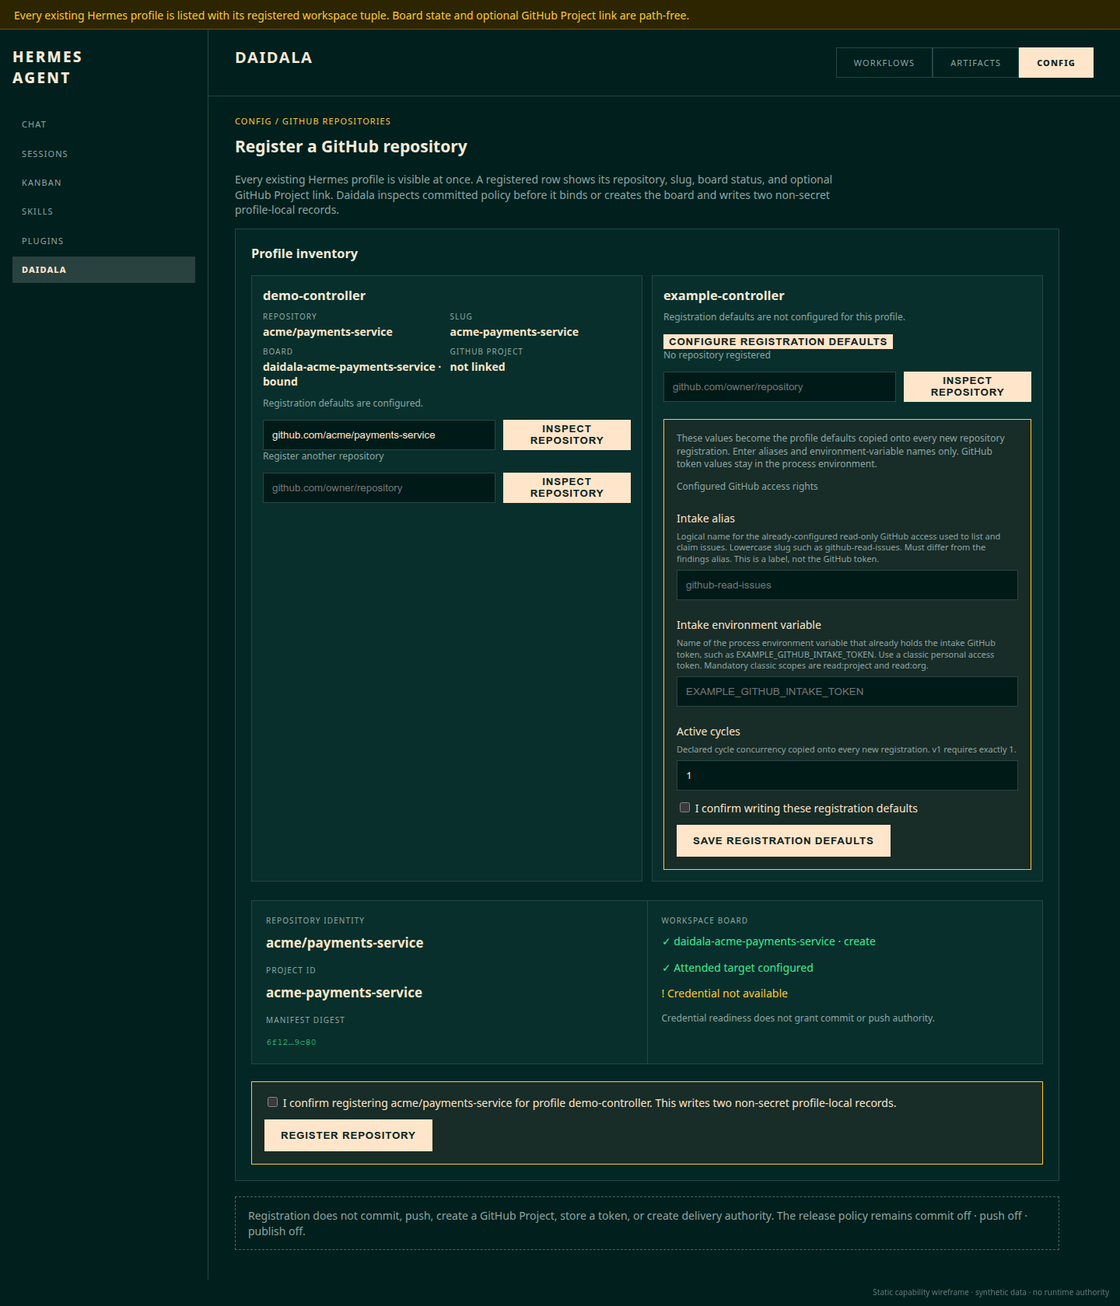
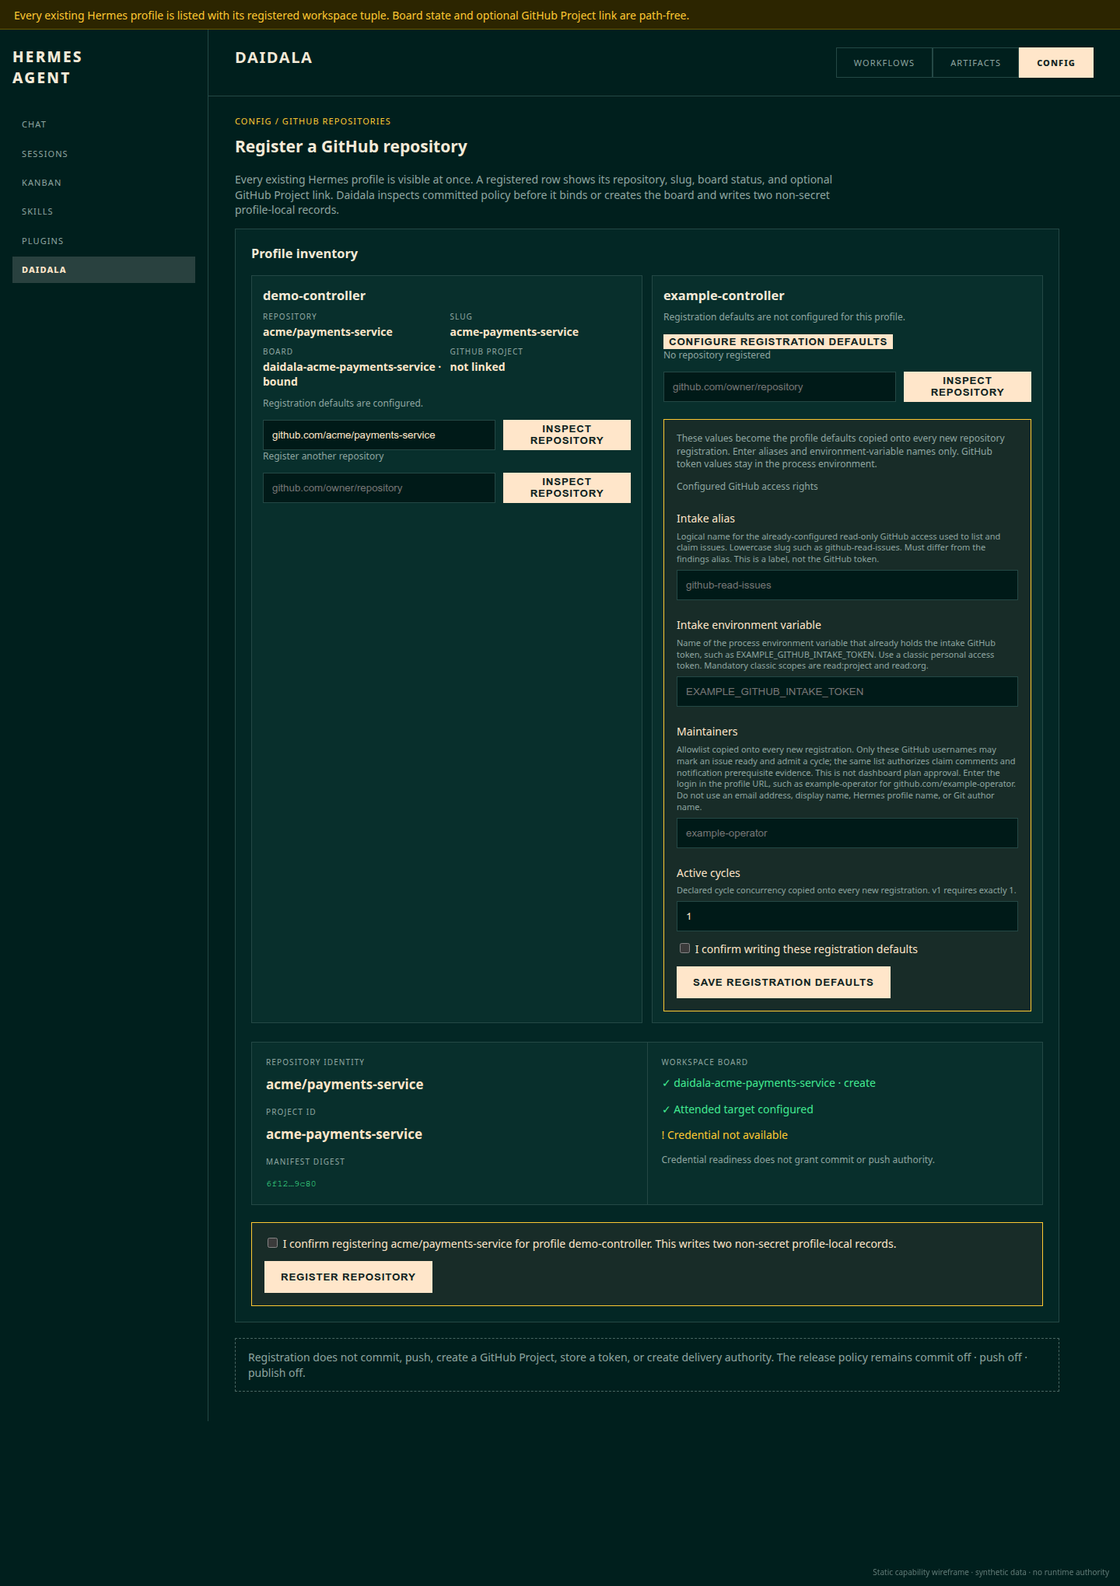
feat(dashboard): explain maintainer identities
- Operators filling Maintainers need to know it is a GitHub username
  (the login in the profile URL), not an email, display name, Hermes
  profile, or Git author name.
- The same list is copied onto each new registration and gates cycle
  admission, issue claim comments, and notification prerequisite
  evidence. It is not dashboard plan approval.
- Wizard help, runbook, CAP-0004, docs/15, docs/16, asset tests, and
  the CAP-0004 wireframe state that contract.

This change lets operators complete Maintainers without reading the
docs first.

Affected files/components:
- dashboard/dist/index.js
- dashboard/AGENTS.md
- tests/test_dashboard_assets.py
- docs/07-runbook.md
- docs/15-self-improvement.md
- docs/16-self-improvement-setup.md
- docs/product/capabilities/CAP-0004-github-repository-registration.md
- docs/changes/archive/CHG-0026-registration-defaults-maintainer-identity.md
- docs/changes/archive/CHG-0027-registration-defaults-maintainer-usage.md
- docs/product/wireframes/generate.mjs
- docs/product/wireframes/html/CAP-0004-github-repository-registration.html
- docs/product/wireframes/exports/CAP-0004-github-repository-registration.png
- docs/product/wireframes/index.html
- docs/product/wireframes/manifest.json

diff --git a/docs/product/wireframes/html/CAP-0004-github-repository-registration.html b/docs/product/wireframes/html/CAP-0004-github-repository-registration.html
@@ -6,7 +6,7 @@
   <title>CAP-0004 — GitHub repository registration</title>
   <style>
     :root { color-scheme: dark; --bg:#001f1d; --panel:#032725; --soft:#082f2c; --line:#244845; --text:#f4ead8; --muted:#8fa6a1; --cream:#ffe6ca; --ink:#102321; --amber:#ffc933; --green:#42ea92; }
-    * { box-sizing:border-box; } body { margin:0; width:1440px; min-height:1680px; overflow:hidden; background:var(--bg); color:var(--text); font:14px/1.4 Inter,ui-sans-serif,system-ui,sans-serif; }
+    * { box-sizing:border-box; } body { margin:0; width:1440px; min-height:2040px; overflow:hidden; background:var(--bg); color:var(--text); font:14px/1.4 Inter,ui-sans-serif,system-ui,sans-serif; }
     .profile { height:38px; padding:10px 18px; color:var(--amber); background:#2c2500; border-bottom:1px solid #675700; }
     .shell { display:grid; grid-template-columns:268px 1fr; min-height:922px; } aside { padding:22px 16px; border-right:1px solid var(--line); } .brand { font-size:19px; font-weight:800; letter-spacing:.12em; } nav { margin-top:30px; display:grid; gap:4px; } nav div { padding:9px 12px; color:var(--muted); font-size:11px; letter-spacing:.1em; text-transform:uppercase; } nav .active { color:var(--cream); background:#29413f; font-weight:800; }
     main { min-width:0; } header { height:86px; padding:24px 34px; display:flex; align-items:center; justify-content:space-between; border-bottom:1px solid var(--line); } h1,h2,h3,p { margin-top:0; } h1 { font-size:20px; letter-spacing:.08em; text-transform:uppercase; } .tabs { display:flex; } .tab { padding:11px 22px; border:1px solid var(--line); color:var(--muted); font-size:11px; letter-spacing:.1em; text-transform:uppercase; } .tab.active { color:var(--ink); background:var(--cream); border-color:var(--cream); font-weight:800; }
@@ -23,7 +23,7 @@
         <div class="profiles">
           <article class="profile-card"><h3>demo-controller</h3><div class="facts"><div><span>Repository</span><b>acme/payments-service</b></div><div><span>Slug</span><b>acme-payments-service</b></div><div><span>Board</span><b>daidala-acme-payments-service · bound</b></div><div><span>GitHub Project</span><b>not linked</b></div></div><p class="hint">Registration defaults are configured.</p><div class="field"><input value="github.com/acme/payments-service" aria-label="GitHub repository link for demo-controller"><button>Inspect repository</button></div><p class="hint">Register another repository</p><div class="field"><input placeholder="github.com/owner/repository" aria-label="Register another repository for demo-controller"><button>Inspect repository</button></div></article>
           <article class="profile-card"><h3>example-controller</h3><p class="hint">Registration defaults are not configured for this profile.</p><button>Configure registration defaults</button><p class="hint">No repository registered</p><div class="field"><input placeholder="github.com/owner/repository" aria-label="GitHub repository link for example-controller"><button>Inspect repository</button></div>
-            <div class="confirm"><p class="hint">These values become the profile defaults copied onto every new repository registration. Enter aliases and environment-variable names only. GitHub token values stay in the process environment.</p><div class="defaults"><p class="hint">Configured GitHub access rights</p><label>Intake alias<small class="field-help">Logical name for the already-configured read-only GitHub access used to list and claim issues. Lowercase slug such as github-read-issues. Must differ from the findings alias. This is a label, not the GitHub token.</small><input placeholder="github-read-issues" aria-label="Intake alias"></label><label>Intake environment variable<small class="field-help">Name of the process environment variable that already holds the intake GitHub token, such as EXAMPLE_GITHUB_INTAKE_TOKEN. Use a classic personal access token. Mandatory classic scopes are read:project and read:org.</small><input placeholder="EXAMPLE_GITHUB_INTAKE_TOKEN" aria-label="Intake environment variable"></label><label>Active cycles<small class="field-help">Declared cycle concurrency copied onto every new registration. v1 requires exactly 1.</small><input value="1" aria-label="Active cycles"></label></div><label><input type="checkbox"> I confirm writing these registration defaults</label><button>Save registration defaults</button></div></article>
+            <div class="confirm"><p class="hint">These values become the profile defaults copied onto every new repository registration. Enter aliases and environment-variable names only. GitHub token values stay in the process environment.</p><div class="defaults"><p class="hint">Configured GitHub access rights</p><label>Intake alias<small class="field-help">Logical name for the already-configured read-only GitHub access used to list and claim issues. Lowercase slug such as github-read-issues. Must differ from the findings alias. This is a label, not the GitHub token.</small><input placeholder="github-read-issues" aria-label="Intake alias"></label><label>Intake environment variable<small class="field-help">Name of the process environment variable that already holds the intake GitHub token, such as EXAMPLE_GITHUB_INTAKE_TOKEN. Use a classic personal access token. Mandatory classic scopes are read:project and read:org.</small><input placeholder="EXAMPLE_GITHUB_INTAKE_TOKEN" aria-label="Intake environment variable"></label><label>Maintainers<small class="field-help">Allowlist copied onto every new registration. Only these GitHub usernames may mark an issue ready and admit a cycle; the same list authorizes claim comments and notification prerequisite evidence. This is not dashboard plan approval. Enter the login in the profile URL, such as example-operator for github.com/example-operator. Do not use an email address, display name, Hermes profile name, or Git author name.</small><input placeholder="example-operator" aria-label="Maintainers"></label><label>Active cycles<small class="field-help">Declared cycle concurrency copied onto every new registration. v1 requires exactly 1.</small><input value="1" aria-label="Active cycles"></label></div><label><input type="checkbox"> I confirm writing these registration defaults</label><button>Save registration defaults</button></div></article>
         </div>
         <div class="preview"><section><p class="label">Repository identity</p><p class="value">acme/payments-service</p><p class="label">Project ID</p><p class="value">acme-payments-service</p><p class="label">Manifest digest</p><code>6f12…9c80</code></section><section><p class="label">Workspace board</p><p class="ok">✓ daidala-acme-payments-service · create</p><p class="ok">✓ Attended target configured</p><p class="warn">! Credential not available</p><p class="hint">Credential readiness does not grant commit or push authority.</p></section></div>
         <div class="confirm"><label><input type="checkbox"> I confirm registering acme/payments-service for profile demo-controller. This writes two non-secret profile-local records.</label><button>Register repository</button></div>

diff --git a/docs/product/wireframes/index.html b/docs/product/wireframes/index.html
@@ -1,2 +1,2 @@
 <!doctype html>
-<html lang="en"><head><meta charset="utf-8"><meta name="viewport" content="width=device-width, initial-scale=1"><title>Daidala capability wireframes</title><style>body{max-width:900px;margin:48px auto;padding:0 24px;background:#001f1d;color:#f4ead8;font:16px/1.5 system-ui}a{color:#ffc933}img{max-width:100%;border:1px solid #244845}code{color:#42ea92}</style></head><body><h1>Daidala capability wireframes</h1><p>Static visual references only. Runtime source and executable tests remain behavior authority.</p><h2>CAP-0003 — Operator dashboard</h2><p><a href="html/CAP-0003-operator-dashboard.html">Open interactive HTML</a> · <a href="exports/CAP-0003-operator-dashboard.png">Open PNG export</a></p><a href="html/CAP-0003-operator-dashboard.html"><img src="exports/CAP-0003-operator-dashboard.png" alt="Operator dashboard wireframe"></a><p><code>1440 × 960</code></p><h2>CAP-0004 — GitHub repository registration</h2><p><a href="html/CAP-0004-github-repository-registration.html">Open interactive HTML</a> · <a href="exports/CAP-0004-github-repository-registration.png">Open PNG export</a></p><a href="html/CAP-0004-github-repository-registration.html"><img src="exports/CAP-0004-github-repository-registration.png" alt="GitHub repository registration wireframe"></a><p><code>1440 × 1680</code></p><h2>CAP-0005 — Reviewed GitHub branch delivery</h2><p><a href="html/CAP-0005-reviewed-github-branch-delivery.html">Open interactive HTML</a> · <a href="exports/CAP-0005-reviewed-github-branch-delivery.png">Open PNG export</a></p><a href="html/CAP-0005-reviewed-github-branch-delivery.html"><img src="exports/CAP-0005-reviewed-github-branch-delivery.png" alt="Reviewed GitHub branch delivery wireframe"></a><p><code>1440 × 960</code></p><h2>CAP-0006 — Repository policy bootstrap</h2><p><a href="html/CAP-0006-repository-policy-bootstrap.html">Open interactive HTML</a> · <a href="exports/CAP-0006-repository-policy-bootstrap.png">Open PNG export</a></p><a href="html/CAP-0006-repository-policy-bootstrap.html"><img src="exports/CAP-0006-repository-policy-bootstrap.png" alt="Repository policy bootstrap wireframe"></a><p><code>1440 × 960</code></p><h2>CAP-0007 — Complete workflow-pack installation</h2><p><a href="html/CAP-0007-complete-workflow-pack-installation.html">Open interactive HTML</a> · <a href="exports/CAP-0007-complete-workflow-pack-installation.png">Open PNG export</a></p><a href="html/CAP-0007-complete-workflow-pack-installation.html"><img src="exports/CAP-0007-complete-workflow-pack-installation.png" alt="Complete workflow-pack installation wireframe"></a><p><code>1440 × 960</code></p></body></html>
+<html lang="en"><head><meta charset="utf-8"><meta name="viewport" content="width=device-width, initial-scale=1"><title>Daidala capability wireframes</title><style>body{max-width:900px;margin:48px auto;padding:0 24px;background:#001f1d;color:#f4ead8;font:16px/1.5 system-ui}a{color:#ffc933}img{max-width:100%;border:1px solid #244845}code{color:#42ea92}</style></head><body><h1>Daidala capability wireframes</h1><p>Static visual references only. Runtime source and executable tests remain behavior authority.</p><h2>CAP-0003 — Operator dashboard</h2><p><a href="html/CAP-0003-operator-dashboard.html">Open interactive HTML</a> · <a href="exports/CAP-0003-operator-dashboard.png">Open PNG export</a></p><a href="html/CAP-0003-operator-dashboard.html"><img src="exports/CAP-0003-operator-dashboard.png" alt="Operator dashboard wireframe"></a><p><code>1440 × 960</code></p><h2>CAP-0004 — GitHub repository registration</h2><p><a href="html/CAP-0004-github-repository-registration.html">Open interactive HTML</a> · <a href="exports/CAP-0004-github-repository-registration.png">Open PNG export</a></p><a href="html/CAP-0004-github-repository-registration.html"><img src="exports/CAP-0004-github-repository-registration.png" alt="GitHub repository registration wireframe"></a><p><code>1440 × 2040</code></p><h2>CAP-0005 — Reviewed GitHub branch delivery</h2><p><a href="html/CAP-0005-reviewed-github-branch-delivery.html">Open interactive HTML</a> · <a href="exports/CAP-0005-reviewed-github-branch-delivery.png">Open PNG export</a></p><a href="html/CAP-0005-reviewed-github-branch-delivery.html"><img src="exports/CAP-0005-reviewed-github-branch-delivery.png" alt="Reviewed GitHub branch delivery wireframe"></a><p><code>1440 × 960</code></p><h2>CAP-0006 — Repository policy bootstrap</h2><p><a href="html/CAP-0006-repository-policy-bootstrap.html">Open interactive HTML</a> · <a href="exports/CAP-0006-repository-policy-bootstrap.png">Open PNG export</a></p><a href="html/CAP-0006-repository-policy-bootstrap.html"><img src="exports/CAP-0006-repository-policy-bootstrap.png" alt="Repository policy bootstrap wireframe"></a><p><code>1440 × 960</code></p><h2>CAP-0007 — Complete workflow-pack installation</h2><p><a href="html/CAP-0007-complete-workflow-pack-installation.html">Open interactive HTML</a> · <a href="exports/CAP-0007-complete-workflow-pack-installation.png">Open PNG export</a></p><a href="html/CAP-0007-complete-workflow-pack-installation.html"><img src="exports/CAP-0007-complete-workflow-pack-installation.png" alt="Complete workflow-pack installation wireframe"></a><p><code>1440 × 960</code></p></body></html>

diff --git a/dashboard/dist/index.js b/dashboard/dist/index.js
@@ -2581,7 +2581,7 @@
     "approval.maintainers": {
       label: "Maintainers",
       placeholder: "example-operator",
-      help: "Who may admit work for repositories registered from this profile. Comma-separated identities, 1 to 32, no duplicates. Use the same identity the gateway will present, such as example-operator."
+      help: "Allowlist copied onto every new registration from this profile. Only these GitHub usernames may mark an issue ready and admit a cycle. The same list authorizes issue claim comments and must match the authorized maintainer in notification prerequisite evidence. This is not dashboard plan approval. Enter the login in the profile URL, such as example-operator for github.com/example-operator. Comma-separated, 1 to 32, no duplicates. Do not use an email address, display name, Hermes profile name, or Git author name."
     },
     "notifications.target": {
       label: "Notification target",

diff --git a/tests/test_dashboard_assets.py b/tests/test_dashboard_assets.py
@@ -381,6 +381,12 @@ def test_bundle_exposes_confirmed_path_free_repository_registration() -> None:
         "explicit non-home target",
         "v1 requires exactly 1",
         "Configured GitHub access rights",
+        "GitHub usernames",
+        "github.com/example-operator",
+        "Do not use an email address",
+        "Hermes profile name",
+        "Allowlist copied onto every new registration",
+        "This is not dashboard plan approval",
         "Attended notifications",
         "Cycle limits",
         "Open bootstrap branch",

diff --git a/docs/changes/archive/CHG-0027-registration-defaults-maintainer-usage.md b/docs/changes/archive/CHG-0027-registration-defaults-maintainer-usage.md
@@ -1,0 +1,42 @@
+# CHG-0027: Registration defaults maintainer usage
+
+**Status:** done
+**Source request:** Direct operator request: "did you also described for what this is used? update the documentation within this project accordingly"
+**Affected capabilities:** CAP-0004
+**Created:** 2026-08-17
+
+## Outcome
+
+The Maintainers field and matching operator docs state what the list is
+used for: copied onto each new registration, it gates cycle admission,
+issue claim comments, and notification prerequisite evidence, and it is
+not dashboard plan approval.
+
+## Scope
+
+- Extend the defaults-wizard Maintainers help with usage.
+- Keep the same usage in the runbook, CAP-0004, dashboard contract,
+  self-improvement docs, asset tests, and CAP-0004 wireframe.
+- Do not change validation, preview/apply authority, or comparison.
+
+## Phases
+
+| Phase | Status | Verification gate |
+|---|---|---|
+| Vertical slice | done | `.venv/bin/python -m pytest tests/test_dashboard_assets.py -q` exited 0 |
+| Closeout | done | `python scripts/check_records.py . && python scripts/check_md_links.py . && lefthook validate && .venv/bin/python -m pytest && ruff check .` exited 0 |
+
+## Decisions
+
+- Usage is the three live allowlist checks: ready-label admission actor,
+  GitHub claim-comment author, and `authorized_maintainer` in notification
+  prerequisite evidence.
+- Dashboard exact-plan approval stays out of this list.
+
+## Evidence
+
+- Config wizard Maintainers help names the three allowlist uses and excludes
+  dashboard plan approval.
+- Runbook, CAP-0004, dashboard contract, docs/15, docs/16, asset tests, and
+  CAP-0004 wireframe at 1440 × 2040 match that usage.
+- Closeout gate passed: records, markdown links, lefthook, pytest (803), ruff.

diff --git a/docs/changes/archive/CHG-0026-registration-defaults-maintainer-identity.md b/docs/changes/archive/CHG-0026-registration-defaults-maintainer-identity.md
@@ -1,0 +1,42 @@
+# CHG-0026: Registration defaults maintainer identity
+
+**Status:** done
+**Source request:** Direct operator request: "Explain this in the description of the field including what the GitHub username is: email adress, profile name etc."
+**Affected capabilities:** CAP-0004
+**Created:** 2026-08-17
+
+## Outcome
+
+The registration-defaults Maintainers field states that each identity is a
+GitHub username (the login in the profile URL) and is not an email address,
+display name, Hermes profile name, or Git author name.
+
+## Scope
+
+- Replace the Maintainers help on the Config defaults wizard.
+- Keep the same wording in the runbook, CAP-0004, dashboard contract, and
+  asset tests.
+- Do not change validation, preview/apply authority, or the allowlist
+  comparison.
+
+## Phases
+
+| Phase | Status | Verification gate |
+|---|---|---|
+| Vertical slice | done | `.venv/bin/python -m pytest tests/test_dashboard_assets.py -q` exited 0 (34 tests) |
+| Closeout | done | `python scripts/check_records.py . && python scripts/check_md_links.py . && lefthook validate && .venv/bin/python -m pytest && ruff check .` exited 0 |
+
+## Decisions
+
+- The live admission actor is the GitHub `login` from the last
+  `daidala-si:ready` label event, not a Hermes gateway identity.
+- Help names that GitHub username as the profile-URL login and lists the
+  common wrong values.
+
+## Evidence
+
+- Config wizard Maintainers help names the GitHub profile-URL login and
+  rejects email, display name, Hermes profile, and Git author name.
+- Runbook, CAP-0004, dashboard contract, asset tests, and CAP-0004 wireframe
+  at 1440 × 1880 match that wording.
+- Closeout gate passed: records, markdown links, lefthook, pytest (803), ruff.

diff --git a/docs/product/capabilities/CAP-0004-github-repository-registration.md b/docs/product/capabilities/CAP-0004-github-repository-registration.md
@@ -57,7 +57,12 @@ and saved through the CLI or Config wizard.
   the required GitHub token type plus mandatory access rights for intake
   (classic personal access token, `read:project` and `read:org`) and findings
   (fine-grained personal access token, Metadata read and Issues read and
-  write). Registration never accepts or stores a token, creates a GitHub Project,
+  write). Maintainers are GitHub usernames (the login in the profile URL), not
+  email addresses, display names, Hermes profile names, or Git author names.
+  The list is copied onto each new registration and gates cycle admission,
+  issue claim comments, and notification prerequisite evidence. It is not
+  dashboard plan approval.
+  Registration never accepts or stores a token, creates a GitHub Project,
   creates a checkout, commits, pushes, publishes, or grants delivery authority.
 
 ## Evidence
@@ -92,5 +97,7 @@ and saved through the CLI or Config wizard.
 - [CHG-0023](../../changes/archive/CHG-0023-registration-defaults-wizard.md)
 - [CHG-0024](../../changes/archive/CHG-0024-registration-defaults-field-help.md)
 - [CHG-0025](../../changes/archive/CHG-0025-registration-defaults-github-access-rights.md)
+- [CHG-0026](../../changes/archive/CHG-0026-registration-defaults-maintainer-identity.md)
+- [CHG-0027](../../changes/archive/CHG-0027-registration-defaults-maintainer-usage.md)
 - [HTML wireframe](../wireframes/html/CAP-0004-github-repository-registration.html)
 - [PNG wireframe](../wireframes/exports/CAP-0004-github-repository-registration.png)

diff --git a/dashboard/AGENTS.md b/dashboard/AGENTS.md
@@ -56,7 +56,11 @@ Provide the optional Daidala extension for the existing Hermes dashboard.
   repository checkout path. Config → GitHub Repositories defaults wizard may
   collect aliases, environment-variable names, maintainers, attended
   destination, and limits; it never collects token values. Each field
-  shows visible decision help for purpose, allowed format, and use. The
+  shows visible decision help for purpose, allowed format, and use.
+  Maintainers are GitHub usernames from the profile URL login, not an email,
+  display name, Hermes profile, or Git author identity. The list is copied
+  onto each new registration and gates cycle admission, claim comments, and
+  notification prerequisite evidence, not plan approval. The
   GitHub group is titled Configured GitHub access rights and names classic
   versus fine-grained GitHub token type plus the mandatory access rights.
   Repository-registration inventory returns every

diff --git a/docs/07-runbook.md b/docs/07-runbook.md
@@ -150,9 +150,14 @@ The executable creation steps for the self-improvement controller live in
 
 #### Approval
 
-- **Maintainers.** Who may admit work for repositories registered from this
-  profile. One to 32 unique identities. Use the same identity the gateway will
-  present, such as `example-operator`.
+- **Maintainers.** Allowlist copied onto every new registration from this
+  profile. Only these GitHub usernames may mark an issue ready and admit a
+  cycle. The same list authorizes issue claim comments and must match the
+  authorized maintainer in notification prerequisite evidence. This is not
+  dashboard plan approval. Enter the login in the profile URL, such as
+  `example-operator` for `github.com/example-operator`. One to 32 unique
+  values. Do not use an email address, display name, Hermes profile name,
+  or Git author name.
 
 #### Attended notifications
 

diff --git a/docs/15-self-improvement.md b/docs/15-self-improvement.md
@@ -600,7 +600,9 @@ retained in the versioned result.
 
 GitHub Project membership is presentation only. Eligibility requires base label
 `daidala-si`, exactly one namespaced category, repository priority, structured
-body, and separate maintainer-applied `daidala-si:ready`. The issue template,
+body, and separate maintainer-applied `daidala-si:ready`. Registration
+`approval.maintainers` is the GitHub-login allowlist for that ready actor,
+claim comments, and notification prerequisite evidence. The issue template,
 labels, Project, credentials, and prerequisite evidence are configured and
 verified. The supported production adapter and project-cycle path is committed,
 installed as an exact detached controller revision, migrated to registration v2,

diff --git a/docs/16-self-improvement-setup.md b/docs/16-self-improvement-setup.md
@@ -983,8 +983,10 @@ return real receipts:
     prerequisite-evidence.json
 ```
 
-Use this exact non-secret shape and replace only the maintainer identity if the
-verified gateway authorization identity differs:
+Use this exact non-secret shape. `approval.maintainers` is the GitHub-login
+allowlist for ready-label admission, claim comments, and the
+`authorized_maintainer` in prerequisite notification evidence. Replace the
+login if the operator GitHub username differs:
 
 ```yaml
 schema: daidala.controller-registration/v2
